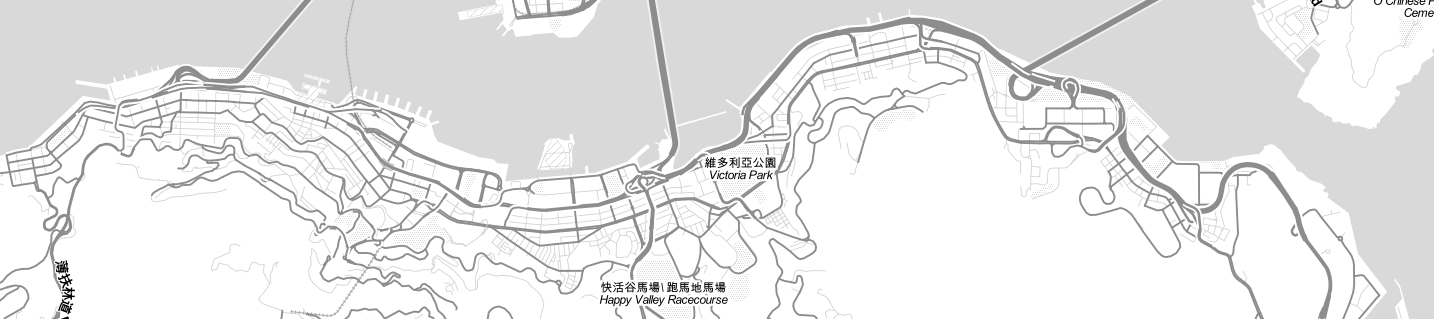
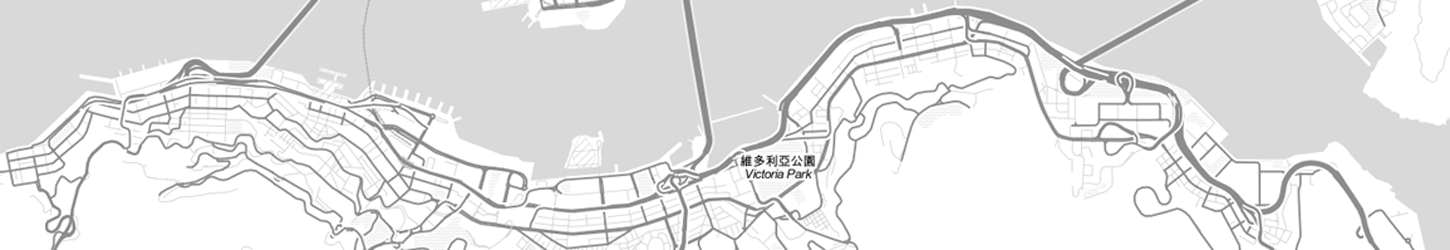
Ding Ding update
added changes to the layout, css, and tried to add  a nav bar.

Changed region(s): [[0.0, 0.0, 0.9819, 1.0], [0.8591, 0.0, 1.0, 0.504]]

diff --git a/final/Diana/Dingding/css/main.css b/final/Diana/Dingding/css/main.css
@@ -16,6 +16,7 @@ input,
 select,
 textarea {
     color: #222;
+    background-color: #373738;
 }
 
 body {
@@ -26,6 +27,13 @@ body {
      font-family: 'Flamenco', cursive;
 }
 
+article{
+    font-family: arial;
+    font-size: 12px;
+    padding: 30px;
+    text-align: center;
+    color: black;
+}
 header {
     background-color: #373738;
     height: 65px;
@@ -40,38 +48,101 @@ header p {
     margin-left: 80%;
 }
 
-#intro {
-    height: 800px;
+div#bottom-side-nav {
+width:58px;
+height:525px;
+position:fixed;
+top:50%;
+left:0;
+background:rgba(255,255,255,0.3);
+z-index:99;
+border-radius:0 30px 30px 0;
+overflow:hidden;
+opacity:0.5;
+display:block!important;
+margin:-262.5px auto auto;
+padding:0;
+}
+
+.sideNavText {
+display:none;
+fill:grey;
+font-size:14px;
+font-weight:700;
+font-family:kulturista-web-1,kulturista-web-2,Georgia,'Century Schoolbook','Times New Roman',Times,serif!important;
+}
+
+
+#home {
+    height: 700px;
     width: 100%;
     background-color: #373738;
     background-image:url('../images/tram1-5.jpg');
     background-size: 100%;
     background-repeat: no-repeat;
-    
+
+}
+ 
+#about { 
+background: url('../images/tram1-6.jpg');  
+
+
+}
+
+#about article { 
+  height: 458px; 
+  position: absolute; 
+  text-align: center; 
+  top: 150px; 
+  width: 100%; 
+}
+
+#home h2 {
+     font-family: 'Flamenco', cursive;
+     font-size: 20px;
+     position: fixed;
+     margin-left:40%;
+     
+
+
+}
+#home h3 {
+    color: black;
+     font-family: 'Flamenco', cursive;
+     font-size: 28px;
+     position: fixed;
+     margin-left:40%;
+      margin-top: 55%;
+      background-color: gray;
 
 }
 #panels{
-    margin-top: 100px;
-    height: 600px;
-    width: 3600px;
+    margin-top: 7%;
+    height: 500px;
+    width: 3660px;
     overflow: hidden;
     background-color: #373738;
 
 }
+
+#panels img{
+
+    padding: 10px;
+
+}
 #map{
-    position: fixed;
-    background-image:url('../images/map.png');
+  height: 199px; 
+  width: 3660px;
+  background-image: url('../images/map.png');
+  background-repeat: repeat;
 
-
+   
 }
 
-#map img{
-
-}
 
 article {
     float: left;
-    width: 600px;
+
 }
 footer {
     background-color: #373738;
@@ -97,6 +168,10 @@ footer {
  * A better looking default horizontal rule
  */
 
+
+}
+
+
 hr {
     display: block;
     height: 1px;
@@ -108,34 +183,10 @@ hr {
 }
 h1 {
    font-family: 'Flamenco', cursive;
-    font-size: 100px;
+    font-size: 120px;
     margin-left: 35%;
     position: fixed;
 
-
-}
-
-#intro h2 {
-     font-family: 'Flamenco', cursive;
-     font-size: 20px;
-     position: fixed;
-     margin-left: 40%;
-     
-
-
-}
-#intro h3 {
-    color: black;
-     font-family: 'Flamenco', cursive;
-     font-size: 28px;
-     position: fixed;
-      margin-left: 40%;
-      margin-top: 55%;
-      background-color: gray;
-    
-
-
-}
 /*
  * Remove the gap between images and the bottom of their containers: h5bp.com/i/440
  */
@@ -176,6 +227,7 @@ textarea {
 /* ==========================================================================
    Author's custom styles
    ========================================================================== */
+
 
 
 

diff --git a/final/Diana/Dingding/js/app.js b/final/Diana/Dingding/js/app.js
@@ -1,3 +1,62 @@
+$(document).ready(function(){
+    $('section[data-type="background"]').each(function(){
+        var $bgobj = $(this); // assigning the object
+     
+        $(window).scroll(function() {
+            var yPos = -($window.scrollTop() / $bgobj.data('speed')); 
+             
+            // Put together our final background position
+            var coords = '50% '+ yPos + 'px';
+ 
+            // Move the background
+            $bgobj.css({ backgroundPosition: coords });
+        }); 
+    });    
+}); 
+
+
+    /*
+    function labelCircle( circleObj, text  )
+    {
+        var textattr = { 'font-size': 10, fill: '#000', stroke: 'none', 'font-family': 'Arial,Helvetica,sans-serif', 'font-weight': 400 };
+        var bbox = circleObj.getBBox();
+        var textObj = circleObj.paper.text( bbox.x + bbox.width / 2, bbox.y + bbox.height / 2, text ).attr( textattr );
+        return textObj;
+    }
+
+    labelCircle(circles[0],"Test"); */
+
+    navCircles[0].click(function () {
+        $('html, body').animate({scrollTop: $("#intro").offset().top}, 500);
+    });
+
+    navCircles[1].click(function () {
+        $('html, body').animate({scrollTop: $("#depratio").offset().top}, 500);
+    });
+
+    navCircles[2].click(function () {
+        $('html, body').animate({scrollTop: $("#fertility").offset().top}, 500);
+    });
+
+    navCircles[3].click(function () {
+        $('html, body').animate({scrollTop: $("#lifeexp").offset().top}, 500);
+    });
+
+    navCircles[4].click(function () {
+        $('html, body').animate({scrollTop: $("#money").offset().top}, 500);
+    });
+
+    navCircles[5].click(function () {
+        $('html, body').animate({scrollTop: $("#share").offset().top}, 500);
+    });
+});
+
+function selectNav(id) {
+    navCircles.attr({r: navNormal, fill: navNormalColor});
+    navCircles[id].attr({r: navZoom, fill: navZoomColor});
+    selected = navCircles[id];
+}
+
 var stations = [
 	{
 		name:'Sheung Wan',

diff --git a/final/Diana/Dingding/index.html b/final/Diana/Dingding/index.html
@@ -18,27 +18,48 @@
             <p>twitter</p>
         </header>
 
-        <section id="intro">
+
+        <section id="home" data-type="background" data-speed:"10" class="pages" class="clearfix">
+            <div id="home-container">
             <h1>Ding Ding</h1>
+            <article> Hong Kong </article>
 
             <h2>Scenes from Hong Kong's tram</h2>
             <h3>scroll down to continue</h3>
+        </div>
+            </section>
 
-        </section>
+<section id="about" data-type="background" data-speed="10" class="pages">
+         <article>east west</article>
+</section>  
+
+    <article> When Hong Kong Tramways was founded, the 26 tramcars of the first fleet were all single-deck. After more than 100 years, we now own and operate a fleet of 163 tramcars which includes 2 antique tramcars. It is the world's largest fleet of double-deck tramcars still in operation, carrying an average of 230,000 passengers every day. </article>
+
 
         <section id="panels" class="clearfix">
-            <img src="images/ktown.jpg">
-            <img src="images/tram.jpg">
             <img src="images/tram1.jpg">
+            <img src="images/ktown.jpg">
+            <img src="images/tram1-4.jpg">
+            <img src="images/tram1-3.jpg">
+            <img src="images/tram1-6.jpg">
+             <img src="images/tram1-2.jpg">
         </section>
 
-        <section id="map">
-               <img src="images/map.png">
-               <p>hello</p>
-        </section>
+<article> Click on each circle to see a view from that tram stop</article>
+<div id="bottom-side-nav">
+
+    </div>
+        <section id="map" class = "clearfix">
+            <div id="map-container">
+             
+               </div>
+
+</section>
+
 
         <footer>
         </footer>
+
 
         <script src="https://ajax.googleapis.com/ajax/libs/jquery/2.0.3/jquery.min.js"></script>
         <script src="js/sugar.min.js"></script>
